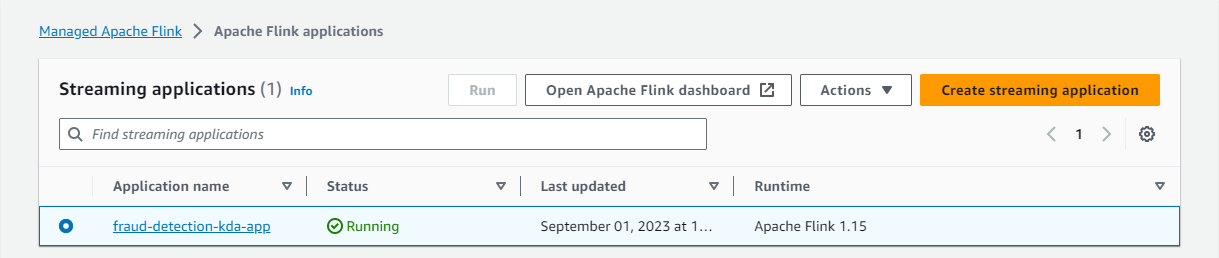
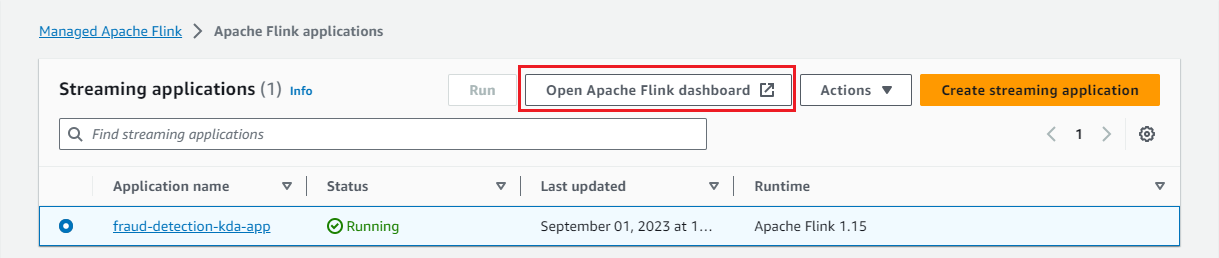
part 2 updated

Changed region(s): [[0.4053, 0.4031, 0.6546, 0.4341], [0.4053, 0.2481, 0.6546, 0.2791]]

diff --git a/content/blog/2023-09-14-fraud-detection-part-2/index.md b/content/blog/2023-09-14-fraud-detection-part-2/index.md
@@ -1,6 +1,6 @@
 ---
-title: Kafka, Flink and DynamoDB for Real Time Fraud Detection - Part 1 Local Development
-date: 2023-08-10
+title: Kafka, Flink and DynamoDB for Real Time Fraud Detection - Part 2 Deployment via AWS Managed Flink
+date: 2023-09-14
 draft: true
 featured: true
 comment: true
@@ -17,42 +17,42 @@ tags:
   - Apache Flink
   - Apache Kafka
   - Kafka Connect
+  - Amazon MSK
+  - MSK Connect
+  - Amazon Managed Service for Apache Flink
   - Amazon DynamoDB
-  - Python
-  - Docker
-  - Docker Compose
   - Fraud Detection
 authors:
   - JaehyeonKim
 images: []
 cevo: 32
-description: Apache Flink is widely used for building real-time stream processing applications. On AWS, Amazon Managed Service for Apache Flink is the easiest option to develop a Flink app as it provides the underlying infrastructure. Re-implementing a solution from an AWS workshop, this series of posts discuss how to develop and deploy a fraud detection app using Kafka, Flink and DynamoDB. Part 1 covers local development using Docker while deployment via KDA will be discussed in part 2.
+description: This series aims to help those who are new to Apache Flink and Amazon Managed Service for Apache Flink by re-implementing a simple fraud detection application that is discussed in an AWS workshop titled AWS Kafka and DynamoDB for real time fraud detection. In part 1, I demonstrated how to develop the application locally, and the app will be deployed via Amazon Managed Service for Apache Flink in this post.
 ---
 
-[Apache Flink](https://flink.apache.org/) is an open-source, unified stream-processing and batch-processing framework. Its core is a distributed streaming data-flow engine that you can use to run real-time stream processing on high-throughput data sources. Currently, it is widely used to build applications for fraud/anomaly detection, rule-based alerting, business process monitoring, and continuous ETL to name a few. On AWS, we can deploy a Flink application via [Amazon Kinesis Data Analytics (KDA)](https://aws.amazon.com/kinesis/data-analytics/), [Amazon EMR](https://aws.amazon.com/emr/) and [Amazon EKS](https://aws.amazon.com/eks/). Among those, KDA is the easiest option as it provides the underlying infrastructure for your Apache Flink applications.
+This series aims to help those who are new to [Apache Flink](https://flink.apache.org/) and [Amazon Managed Service for Apache Flink](https://aws.amazon.com/about-aws/whats-new/2023/08/amazon-managed-service-apache-flink/) by re-implementing a simple fraud detection application that is discussed in an AWS workshop titled [AWS Kafka and DynamoDB for real time fraud detection](https://catalog.us-east-1.prod.workshops.aws/workshops/ad026e95-37fd-4605-a327-b585a53b1300/en-US). In part 1, I demonstrated how to develop the application locally, and the app will be deployed via *Amazon Managed Service for Apache Flink* in this post.
 
-There are a number of AWS workshops and blog posts where we can learn Flink development on AWS and one of those is [AWS Kafka and DynamoDB for real time fraud detection](https://catalog.us-east-1.prod.workshops.aws/workshops/ad026e95-37fd-4605-a327-b585a53b1300/en-US). While this workshop targets a Flink application on KDA, it would have been easier if it illustrated local development before moving into deployment via KDA. In this series of posts, we will re-implement the fraud detection application of the workshop for those who are new to Flink and KDA. Specifically the app will be developed locally using Docker in part 1, and it will be deployed via KDA in part 2.
-
-* [Part 1 Local Development](#) (this post)
-* Part 2 Deployment via AWS Managed Flink
+* [Part 1 Local Development](/blog/2023-08-10-fraud-detection-part-1)
+* [Part 2 Deployment via AWS Managed Flink](#) (this post)
 
 [**Update 2023-08-30**] Amazon Kinesis Data Analytics is renamed into [Amazon Managed Service for Apache Flink](https://aws.amazon.com/about-aws/whats-new/2023/08/amazon-managed-service-apache-flink/). In this post, Kinesis Data Analytics (KDA) and Amazon Managed Service for Apache Flink will be used interchangeably.
 
 ## Architecture
 
-There are two Python applications that send transaction and flagged account records into the corresponding topics - the transaction app sends records indefinitely in a loop. Both the topics are consumed by a Flink application, and it filters the transactions from the flagged accounts followed by sending them into an output topic of flagged transactions. Finally, the flagged transaction records are sent into a DynamoDB table by the [Camel DynamoDB sink connector](https://camel.apache.org/camel-kafka-connector/3.18.x/reference/connectors/camel-aws-ddb-sink-kafka-sink-connector.html) in order to serve real-time requests from an API.
+There are two Python applications that send transaction and flagged account records into the corresponding topics - the transaction app sends records indefinitely in a loop. Note that the record generating apps run in the developer machine that is connected via VPN for simplicity. Both the topics are consumed by a Flink application, and it filters the transactions from the flagged accounts followed by sending them into an output topic of flagged transactions. Finally, the flagged transaction records are sent into a DynamoDB table by the [Camel DynamoDB sink connector](https://camel.apache.org/camel-kafka-connector/3.18.x/reference/connectors/camel-aws-ddb-sink-kafka-sink-connector.html) in order to serve real-time requests from an API.
 
 ![](featured.png#center)
 
 ## Infrastructure
 
-The Kafka cluster, Kafka connect and management app (kpow) are created using Docker while the python apps including the Flink app run in a virtual environment. The source can be found in the [**GitHub repository**](https://github.com/jaehyeon-kim/flink-demos/tree/master/fraud-detection/remote) of this post.
+The infrastructure resources are created using Terraform. The source can be found in the [**GitHub repository**](https://github.com/jaehyeon-kim/flink-demos/tree/master/fraud-detection/remote) of this post.
 
 ### Preparation
 
-#### MSK Connect and Flink Application Packages
+#### Flink Application and Kafka Connector Packages
 
-As discussed later, the Flink application needs the Kafka connector artifact (*flink-sql-connector-kafka-1.15.2.jar*) in order to connect a Kafka cluster. Also, the source of the Camel DynamoDB sink connector should be available in the Kafka connect service. They can be downloaded by executing the following script.
+The Flink application has multiple jar dependencies as the Kafka cluster is authenticated via IAM. Therefore, the jar files have to be combined into a single Uber jar file because KDA does not allow you to specify multiple pipeline jar files. The details about how to create the custom jar file can be found in [this post](/blog/2023-08-28-getting-started-with-pyflink-on-aws-part-2). Also, the Camel DynamoDB sink connector needs to be packaged into a zip file, and it can be performed after downloading the binaries from the Maven repository.
+
+The following script (*build.sh*) creates the Flink app and Kafka connector packages. For the former, it builds the Uber Jar file, followed by downloading the *kafka-python* package, creating a zip file that can be used to deploy the Flink app via KDA. Note that, although the Flink app does not need the *kafka-python* package, it is added in order to check if `--pyFiles` option works.
 
 ```bash
 # build.sh
@@ -101,9 +101,10 @@ curl -o $CONN_PATH/camel-aws-ddb-sink-kafka-connector.tar.gz $CONNECTOR_SRC_DOWN
   && rm $CONN_PATH/camel-aws-ddb-sink-kafka-connector.tar.gz
 ```
 
-Once downloaded, they can be found in the corresponding folders as shown below. Although the Flink app doesn't need the *kafka-python* package, it is included in the *site_packages* folder in order to check if `--pyFiles` option works in KDA - it'll be checked in part 2.
+Once completed, we can obtain the following zip files.
 
-![](source-folders.png#center)
+* Flink application - *connectors/camel-aws-ddb-sink-kafka-connector.zip*
+* Kafka sink connector - *kda-package.zip*
 
 #### Kafka Management App
 
@@ -141,11 +142,11 @@ networks:
 
 ### VPC and VPN
 
-A VPC with 3 public and private subnets is created using the [AWS VPC Terraform module](https://registry.terraform.io/modules/terraform-aws-modules/vpc/aws/latest) (*infra/vpc.tf*). Also, a [SoftEther VPN](https://www.softether.org/) server is deployed in order to access the resources in the private subnets from the developer machine (*infra/vpn.tf*). It is particularly useful to monitor and manage the MSK cluster and Kafka topic locally. The details about how to configure the VPN server can be found in an [earlier post](/blog/2022-02-06-dev-infra-terraform).
+A VPC with 3 public and private subnets is created using the [AWS VPC Terraform module](https://registry.terraform.io/modules/terraform-aws-modules/vpc/aws/latest) (*infra/vpc.tf*). Also, a [SoftEther VPN](https://www.softether.org/) server is deployed in order to access the resources in the private subnets from the developer machine (*infra/vpn.tf*). It is particularly useful to monitor and manage the MSK cluster and Kafka topic locally. The details about how to configure the VPN server can be found in [this post](/blog/2022-02-06-dev-infra-terraform).
 
 ### MSK Cluster
 
-A MSK cluster with 2 brokers is created. The broker nodes are deployed with the *kafka.m5.large* instance type in private subnets and IAM authentication is used for the client authentication method. Finally, additional server configurations are added such as enabling auto creation of topics and topic deletion. Note that the Flink application needs to have access to the Kafka brokers, and it is allowed by adding an inbound connection from the KDA app into the brokers on port 9098.
+A MSK cluster with 2 brokers is created. The broker nodes are deployed with the *kafka.m5.large* instance type in private subnets and IAM authentication is used for the client authentication method. Finally, additional server configurations are added such as enabling auto creation of topics and topic deletion.
 
 ```terraform
 # infra/variable.tf
@@ -225,6 +226,8 @@ resource "aws_msk_configuration" "msk_config" {
 
 #### Security Group
 
+The security group of the MSK cluster allows all inbound traffic from itself and all outbound traffic into all IP addresses. The Kafka connectors will use the same security group and the former is necessary. Both the rules are configured too generously, however, we can limit the protocol and port ranges in production. Also, the security group has an additional inbound rule that permits to connect on port 9098 from the security group of the Flink application.
+
 ```terraform
 resource "aws_security_group" "msk" {
   name   = "${local.name}-msk-sg"
@@ -270,7 +273,7 @@ resource "aws_security_group_rule" "msk_kda_inbound" {
 
 ### DynamoDB Table
 
-The destination table is named *fraud-detection-flagged-transactions* (`${local.name}-flagged-transactions`), and it has the primary key where *order_id* and *ordered_at* are the hash and range key respectively. It also has a global secondary index where *customer_id* and *ordered_at* constitute the primary key. Note that *ordered_at* is not generated by the source connector as the Java faker library doesn't have a method to generate a current timestamp. As illustrated below it'll be created by the sink connector using SMTs. The table can be created using as shown below.
+The destination table is configured to have a composite primary key where *transaction_id* and *transaction_date* are the hash and range key respectively. It also has a global secondary index (GSI) where *account_id* and *transaction_date* constitute the primary key. The GSI is to facilitate querying by account id.
 
 ```terraform
 # infra/ddb.tf
@@ -312,7 +315,7 @@ resource "aws_dynamodb_table" "transactions_table" {
 
 ### Flink Application
 
-The Flink application and related resources are created conditionally by setting a flag named *local.kda.to_create* to *true*. When it comes to the runtime environment, the latest supported Flink version (1.15.2) is chosen. Also, the application requires permission to access AWS resources (*service_execution_role*) and it will be discussed in a later section. Furthermore, we need to specify more configurations that are related to the Flink application and CloudWatch logging, and they will be covered below in detail as well.
+The runtime environment and service execution role are required to create a Flink app. The latest supported Flink version (1.15.2) is specified for the former and an IAM role is created for the latter - it'll be discussed more in a later section. Furthermore, we need to specify more configurations that are related to the Flink application and CloudWatch logging, and they will be covered below in detail as well.
 
 ```terraform
 # infra/variable.tf
@@ -719,14 +722,11 @@ resource "aws_iam_role" "kda_app_role" {
 
 Once deployed, we can see the application on AWS console, and it stays in the ready status.
 
-![](kda-app.png#center)
-
+![](flink-app.png#center)
 
 ### Camel DynamoDB Sink Connector
 
-The connector is configured to write messages from the *order* topic into the DynamoDB table created earlier. It requires to specify the table name, AWS region, operation, write capacity and whether to use the [default credential provider](https://docs.aws.amazon.com/sdk-for-java/v1/developer-guide/credentials.html) - see the [documentation](https://camel.apache.org/camel-kafka-connector/3.18.x/reference/connectors/camel-aws-ddb-sink-kafka-sink-connector.html) for details. Note that, if you don't use the default credential provider, you have to specify the *access key id* and *secret access key*. Note further that, although the current LTS version is *v3.18.2*, the default credential provider option didn't work for me, and I was recommended [to use *v3.20.3* instead](https://github.com/apache/camel-kafka-connector/issues/1533). Finally, the [*camel.sink.unmarshal* option](https://github.com/apache/camel-kafka-connector/blob/camel-kafka-connector-3.20.3/connectors/camel-aws-ddb-sink-kafka-connector/src/main/resources/kamelets/aws-ddb-sink.kamelet.yaml#L123) is to convert data from the internal *java.util.HashMap* type into the required *java.io.InputStream* type. Without this configuration, the [connector fails](https://github.com/apache/camel-kafka-connector/issues/1532) with *org.apache.camel.NoTypeConversionAvailableException* error.
-
-Although the destination table has *ordered_at* as the range key, it is not created by the source connector because the Java faker library doesn't have a method to generate a current timestamp. Therefore, it is created by the sink connector using two SMTs - *InsertField* and *TimestampConverter*. Specifically they add a timestamp value to the *order_at* attribute, format the value as *yyyy-MM-dd HH:mm:ss:SSS*, and convert its type into string.
+The connector is configured to write messages from the *flagged-transactions* topic into the DynamoDB table created earlier. It requires to specify the table name, AWS region, operation, write capacity and whether to use the [default credential provider](https://docs.aws.amazon.com/sdk-for-java/v1/developer-guide/credentials.html) - see the [documentation](https://camel.apache.org/camel-kafka-connector/3.18.x/reference/connectors/camel-aws-ddb-sink-kafka-sink-connector.html) for details. See [this post](/blog/2023-07-03-kafka-connect-for-aws-part-3) for details about how to set up the sink connector.
 
 ```terraform
 # infra/msk-connect.tf
@@ -838,41 +838,46 @@ The sink connector can be checked on AWS Console as shown below.
 
 ## Run Application
 
-* flagged account - `DATE_TYPE=account python producer.py`
-* transaction - `DATE_TYPE=transaction python producer.py`
+We first need to create records in the source Kafka topics. It is performed by executing the data generator app (*producer.py*). See [part 1](/blog/2023-08-10-fraud-detection-part-1) for details about the generator app and how to execute it. Note that we should connect to the VPN server in order to create records from the developer machine.
 
-We first need to create records in the source Kafka topic. It is done by executing the data generator app (*producer.py*). See [part 2](/blog/2023-08-28-getting-started-with-pyflink-on-aws-part-2) for details about the generator app and how to execute it. Once executed, we can check the topic for the source data is created and messages are ingested.
+Once executed, we can check the source are created and messages are ingested.
 
-![](source-topic.png#center)
+![](source-topics.png#center)
 
-We can run the Flink application on AWS console. There are multiple options and, as we haven't enabled [snapshots](https://docs.aws.amazon.com/managed-flink/latest/java/how-fault-snapshot.html), we can run the application without snapshot.
+### Monitoring on Flink Web UI
 
-![](kda-run.png#center)
+We can run the Flink application on AWS console with the *Run without snapshot* option as we haven't enabled [snapshots](https://docs.aws.amazon.com/managed-flink/latest/java/how-fault-snapshot.html).
+
+![](flink-run.png#center)
 
 Once the app is running, we can monitor it on the Flink Web UI available on AWS Console. 
 
-![](cluster-dashboard-00.png#center)
+![](flink-dashboard-00.png#center)
 
 In the Overview section, it shows the available task slots, running jobs and completed jobs.
 
-![](cluster-dashboard-01.png#center)
+![](flink-dashboard-01.png#center)
 
 We can inspect an individual job in the Jobs menu. It shows key details about a job execution in *Overview*, *Exceptions*, *TimeLine*, *Checkpoints* and *Configuration* tabs.
 
-![](cluster-dashboard-02.png#center)
+![](flink-dashboard-02.png#center)
+
+### CloudWatch Logging
 
 The application log messages can be checked in the CloudWatch Console, and it gives additional capability to debug the application.
 
-![](kda-logging.png#center)
+![](flink-logging.png#center)
 
-Finally, we can see details of all the topics in *Kpow*. The total number of messages matches between the source and output topics but not within partitions.
+### Application Output
+
+We can see details of all the topics in *Kpow*. The output topic (*flagged-transactions*) is created by the Flink application, and fraudulent transaction records are created in it.
 
 ![](all-topics.png#center)
 
-We can check the ingested records on the DynamoDB table items view. Below shows a list of scanned records.
+Finally, we can check the output records on the DynamoDB table items view. All account IDs end with odd numbers, and it indicates they are from flagged accounts.
 
 ![](ddb-output.png#center)
 
 ## Summary
 
-Apache Flink is widely used for building real-time stream processing applications. On AWS, Kinesis Data Analytics (KDA) is the easiest option to develop a Flink app as it provides the underlying infrastructure. Re-implementing a solution from an AWS workshop, this series of posts discuss how to develop and deploy a fraud detection app using Kafka, Flink and DynamoDB. In this post, we covered local development using Docker, and deployment via KDA will be discussed in part 2.
+This series aims to help those who are new to Apache Flink and Amazon Managed Service for Apache Flink by re-implementing a simple fraud detection application that is discussed in an AWS workshop titled AWS Kafka and DynamoDB for real time fraud detection. In part 1, I demonstrated how to develop the application locally, and the app was deployed via Amazon Managed Service for Apache Flink in this post.

diff --git a/content/blog/2023-08-10-fraud-detection-part-1/index.md b/content/blog/2023-08-10-fraud-detection-part-1/index.md
@@ -34,7 +34,7 @@ description: Apache Flink is widely used for building real-time stream processin
 There are a number of AWS workshops and blog posts where we can learn Flink development on AWS and one of those is [AWS Kafka and DynamoDB for real time fraud detection](https://catalog.us-east-1.prod.workshops.aws/workshops/ad026e95-37fd-4605-a327-b585a53b1300/en-US). While this workshop targets a Flink application on KDA, it would have been easier if it illustrated local development before moving into deployment via KDA. In this series of posts, we will re-implement the fraud detection application of the workshop for those who are new to Flink and KDA. Specifically the app will be developed locally using Docker in part 1, and it will be deployed via KDA in part 2.
 
 * [Part 1 Local Development](#) (this post)
-* Part 2 Deployment via AWS Managed Flink
+* [Part 2 Deployment via AWS Managed Flink](/blog/2023-09-14-fraud-detection-part-2)
 
 [**Update 2023-08-30**] Amazon Kinesis Data Analytics is renamed into [Amazon Managed Service for Apache Flink](https://aws.amazon.com/about-aws/whats-new/2023/08/amazon-managed-service-apache-flink/). In this post, Kinesis Data Analytics (KDA) and Amazon Managed Service for Apache Flink will be used interchangeably.
 
